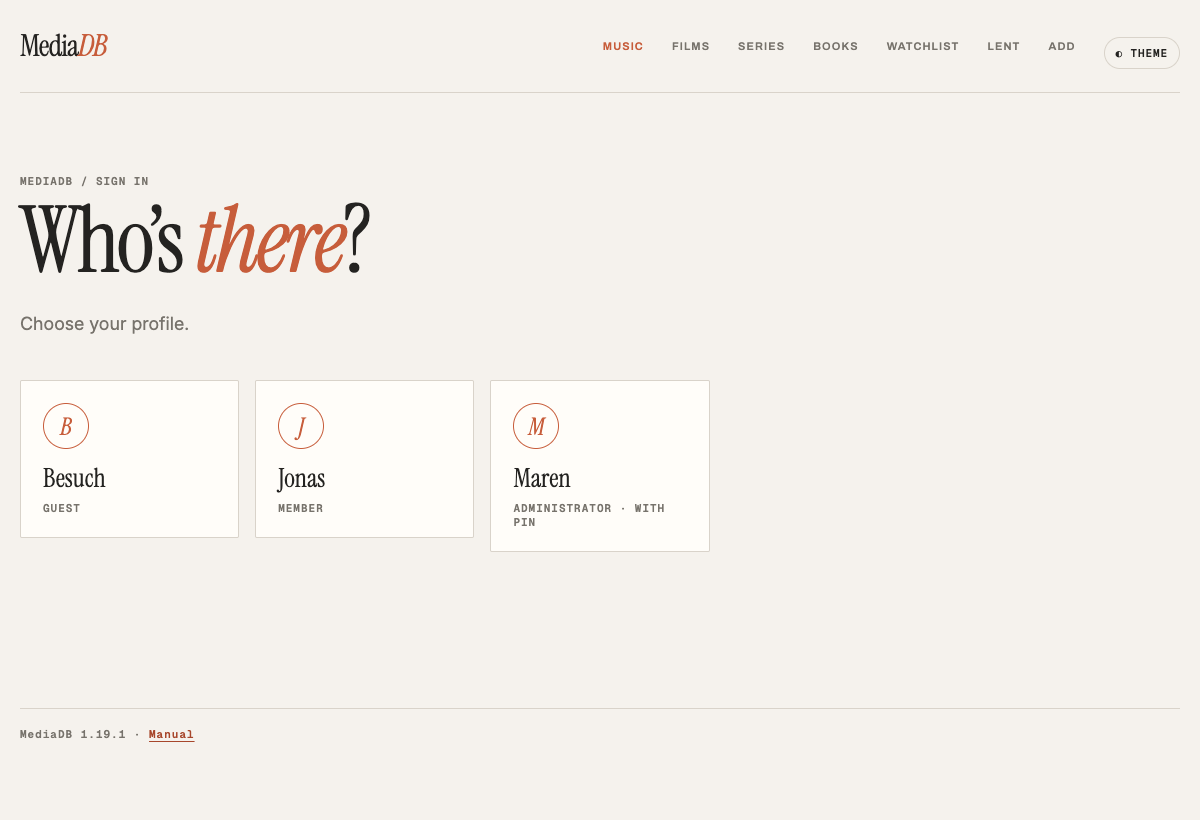
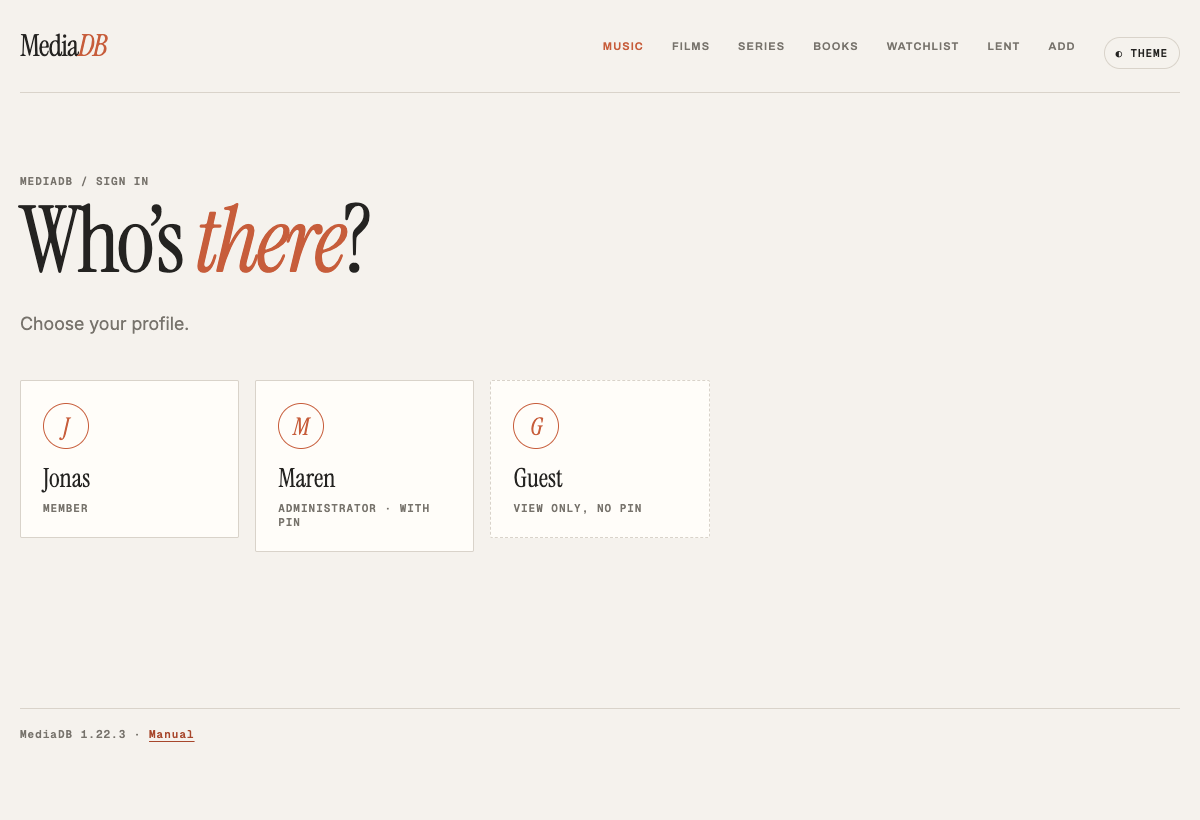
MediaDB 1.22.3 – Gastzugang eingebaut
Mit Konten zeigt die Anmeldeseite von selbst „Gast“ (Kachel bzw. Knopf
bei Name und Passwort), ohne dass eine Person angelegt werden muss.
Schalter unter Einstellungen → Nutzer und Anmeldung → Gastzugang;
abgeschaltet ist ein angemeldeter Gast sofort abgemeldet. Nur im
Heimnetz.

diff --git a/app/templates/base.html b/app/templates/base.html
@@ -1,4 +1,4 @@
-<!doctype html><html lang="{{ lang }}"><head><meta charset="utf-8"><meta name="viewport" content="width=device-width,initial-scale=1"><script>try{const t=(localStorage.getItem("mediadb-theme")||localStorage.getItem("musikdb-theme"));if(t)document.documentElement.dataset.theme=t;else if(matchMedia("(prefers-color-scheme: dark)").matches)document.documentElement.dataset.theme="dark"}catch(e){}</script><link rel="stylesheet" href="{{ base }}/static/style.css?v={{ asset_v }}">{% if custom_css %}<style id="customcolors">{{ custom_css|safe }}</style>{% endif %}<title>MediaDB</title></head><body{% if me and me.role == 'guest' %} class="guest"{% endif %}><div class="shell"><nav><a class="brand" href="{{ base }}/">Media<em>DB</em></a>{% if area != 'welcome' %}{% if area_on('music') %}<a href="{{ base }}/media"{% if area not in ('films','series','books','home','watch','settings','lend','help','welcome') %} class="here"{% endif %}>{{ _("Musik") }}</a>{% endif %}{% if area_on('films') %}<a href="{{ base }}/films"{% if area=='films' %} class="here"{% endif %}>{{ _("Filme") }}</a>{% endif %}{% if area_on('series') %}<a href="{{ base }}/series"{% if area=='series' %} class="here"{% endif %}>{{ _("Serien") }}</a>{% endif %}{% if area_on('books') %}<a href="{{ base }}/books"{% if area=='books' %} class="here"{% endif %}>{{ _("Bücher") }}</a>{% endif %}{% if area_on('watch') %}<a href="{{ base }}/watchlist"{% if area=='watch' %} class="here"{% endif %}>{{ _("Merkliste") }}</a>{% endif %}<a href="{{ base }}/lend"{% if area=='lend' %} class="here"{% endif %}>{{ _("Verliehen") }}</a>{% if not (me and me.role == 'guest') %}<a href="{{ base }}{{ add_url(area) }}">{{ _("Hinzufügen") }}</a>{% endif %}{% if not login_page %}{% if not accounts_on or (me and me.role == 'admin') %}<a href="{{ base }}/settings" class="navgear{% if area=='settings' %} here{% endif %}" title="{{ _('Einstellungen') }}" aria-label="{{ _('Einstellungen') }}">⚙</a>{% endif %}<a href="{{ base }}/hilfe" target="mediadb-hilfe" class="navhelp{% if area=='help' %} here{% endif %}" title="{{ _('Hilfe') }}" aria-label="{{ _('Hilfe') }}">?</a>{% endif %}{% if me and not login_page %}<a href="{{ base }}/logout" class="navme" title="{{ _('Abmelden') }}">{{ me.name }} · {{ _("Wechseln") if accounts_mode == 'profiles' else _("Abmelden") }}</a>{% elif auth_on and not login_page %}<a href="{{ base }}/logout">{{ _("Abmelden") }}</a>{% endif %}{% if not login_page %}<div class="act" id="act" hidden><button type="button" class="actbtn" id="actbtn" aria-expanded="false" aria-controls="actpanel"><i class="actdot"></i><span id="actn"></span></button><div class="actpanel" id="actpanel" hidden></div></div>{% endif %}<button class="theme-toggle" type="button" onclick="toggleTheme()" aria-label="{{ _('Farbschema wechseln') }}">◐ <span>{{ _("Theme") }}</span></button>{% if nav_langs|length > 1 %}<div class="lang-switch" role="group" aria-label="{{ _('Sprache') }}">{% for code in nav_langs %}{% set name = langs[code] %}<button type="button" class="lang-btn{% if code==lang %} active{% endif %}" title="{{ name }}" aria-pressed="{{ 'true' if code==lang else 'false' }}" onclick="location.href='{{ base }}/lang/{{ code }}?next='+encodeURIComponent(location.pathname+location.search)">{{ code|upper }}</button>{% endfor %}</div>{% endif %}{% endif %}</nav><main>{% block content %}{% endblock %}</main><footer class="appfoot">MediaDB {{ app_version|default("") }} · <a class="helplink" href="{{ base }}/hilfe" target="mediadb-hilfe">{{ _("Anleitung") }}</a>{% set upd = update_info() if update_info is defined else None %}{% if upd %} · <a class="updnote" href="{{ upd.url }}" target="_blank" rel="noopener noreferrer">{{ _("Neue Version § verfügbar", upd.version) }}</a>{% endif %}</footer></div>{% if not login_page and area != 'welcome' %}<script>(function(){var A=document.getElementById('act'),B=document.getElementById('actbtn'),N=document.getElementById('actn'),P=document.getElementById('actpanel'),base={{ base|tojson }};
+<!doctype html><html lang="{{ lang }}"><head><meta charset="utf-8"><meta name="viewport" content="width=device-width,initial-scale=1"><script>try{const t=(localStorage.getItem("mediadb-theme")||localStorage.getItem("musikdb-theme"));if(t)document.documentElement.dataset.theme=t;else if(matchMedia("(prefers-color-scheme: dark)").matches)document.documentElement.dataset.theme="dark"}catch(e){}</script><link rel="stylesheet" href="{{ base }}/static/style.css?v={{ asset_v }}">{% if custom_css %}<style id="customcolors">{{ custom_css|safe }}</style>{% endif %}<title>MediaDB</title></head><body{% if me and me.role == 'guest' %} class="guest"{% endif %}><div class="shell"><nav><a class="brand" href="{{ base }}/">Media<em>DB</em></a>{% if area != 'welcome' %}{% if area_on('music') %}<a href="{{ base }}/media"{% if area not in ('films','series','books','home','watch','settings','lend','help','welcome') %} class="here"{% endif %}>{{ _("Musik") }}</a>{% endif %}{% if area_on('films') %}<a href="{{ base }}/films"{% if area=='films' %} class="here"{% endif %}>{{ _("Filme") }}</a>{% endif %}{% if area_on('series') %}<a href="{{ base }}/series"{% if area=='series' %} class="here"{% endif %}>{{ _("Serien") }}</a>{% endif %}{% if area_on('books') %}<a href="{{ base }}/books"{% if area=='books' %} class="here"{% endif %}>{{ _("Bücher") }}</a>{% endif %}{% if area_on('watch') %}<a href="{{ base }}/watchlist"{% if area=='watch' %} class="here"{% endif %}>{{ _("Merkliste") }}</a>{% endif %}<a href="{{ base }}/lend"{% if area=='lend' %} class="here"{% endif %}>{{ _("Verliehen") }}</a>{% if not (me and me.role == 'guest') %}<a href="{{ base }}{{ add_url(area) }}">{{ _("Hinzufügen") }}</a>{% endif %}{% if not login_page %}{% if not accounts_on or (me and me.role == 'admin') %}<a href="{{ base }}/settings" class="navgear{% if area=='settings' %} here{% endif %}" title="{{ _('Einstellungen') }}" aria-label="{{ _('Einstellungen') }}">⚙</a>{% endif %}<a href="{{ base }}/hilfe" target="mediadb-hilfe" class="navhelp{% if area=='help' %} here{% endif %}" title="{{ _('Hilfe') }}" aria-label="{{ _('Hilfe') }}">?</a>{% endif %}{% if me and not login_page %}<a href="{{ base }}/logout" class="navme" title="{{ _('Abmelden') }}">{{ _("Gast") if me.name == GUEST_NAME else me.name }} · {{ _("Wechseln") if accounts_mode == 'profiles' else _("Abmelden") }}</a>{% elif auth_on and not login_page %}<a href="{{ base }}/logout">{{ _("Abmelden") }}</a>{% endif %}{% if not login_page %}<div class="act" id="act" hidden><button type="button" class="actbtn" id="actbtn" aria-expanded="false" aria-controls="actpanel"><i class="actdot"></i><span id="actn"></span></button><div class="actpanel" id="actpanel" hidden></div></div>{% endif %}<button class="theme-toggle" type="button" onclick="toggleTheme()" aria-label="{{ _('Farbschema wechseln') }}">◐ <span>{{ _("Theme") }}</span></button>{% if nav_langs|length > 1 %}<div class="lang-switch" role="group" aria-label="{{ _('Sprache') }}">{% for code in nav_langs %}{% set name = langs[code] %}<button type="button" class="lang-btn{% if code==lang %} active{% endif %}" title="{{ name }}" aria-pressed="{{ 'true' if code==lang else 'false' }}" onclick="location.href='{{ base }}/lang/{{ code }}?next='+encodeURIComponent(location.pathname+location.search)">{{ code|upper }}</button>{% endfor %}</div>{% endif %}{% endif %}</nav><main>{% block content %}{% endblock %}</main><footer class="appfoot">MediaDB {{ app_version|default("") }} · <a class="helplink" href="{{ base }}/hilfe" target="mediadb-hilfe">{{ _("Anleitung") }}</a>{% set upd = update_info() if update_info is defined else None %}{% if upd %} · <a class="updnote" href="{{ upd.url }}" target="_blank" rel="noopener noreferrer">{{ _("Neue Version § verfügbar", upd.version) }}</a>{% endif %}</footer></div>{% if not login_page and area != 'welcome' %}<script>(function(){var A=document.getElementById('act'),B=document.getElementById('actbtn'),N=document.getElementById('actn'),P=document.getElementById('actpanel'),base={{ base|tojson }};
 var L={{ {'one':_t('1 Aufgabe läuft'),'many':_t('§ Aufgaben laufen','%N'),'net':_t('Internet'),'files':_t('liest Dateien'),'hint':_t('Solange Dateien gelesen werden, lassen sich Ordner auf dem NAS eventuell nicht umbenennen. Danach geht es wieder.')}|tojson }};
 function esc(t){return String(t).replace(/[&<>"]/g,function(c){return {'&':'&amp;','<':'&lt;','>':'&gt;','"':'&quot;'}[c]})}
 function show(d){var it=d.items||[];if(!it.length){A.hidden=true;P.hidden=true;B.setAttribute('aria-expanded','false');return}A.hidden=false;var f=it.some(function(x){return x.files});A.classList.toggle('files',f);

diff --git a/app/templates/login.html b/app/templates/login.html
@@ -6,7 +6,9 @@
 <div class="profiles">{% for p in people %}
  {% if p.needs %}<a class="profile" href="{{ base }}/login?u={{ p.id }}&amp;next={{ next|urlencode }}"><span class="pinit" aria-hidden="true">{{ p.name[:1] }}</span><strong>{{ p.name }}</strong><span class="muted">{{ _(ROLES[p.role]) }} · {{ _("mit PIN") }}</span></a>
  {% else %}<form method="post" action="{{ base }}/login"><input type="hidden" name="uid" value="{{ p.id }}"><input type="hidden" name="next" value="{{ next }}"><button class="profile"><span class="pinit" aria-hidden="true">{{ p.name[:1] }}</span><strong>{{ p.name }}</strong><span class="muted">{{ _(ROLES[p.role]) }}</span></button></form>{% endif %}
-{% endfor %}</div>
+{% endfor %}
+ {% if guest %}<form method="post" action="{{ base }}/login"><input type="hidden" name="uid" value="{{ guest.id }}"><input type="hidden" name="next" value="{{ next }}"><button class="profile guesttile"><span class="pinit" aria-hidden="true">{{ _("Gast")[:1] }}</span><strong>{{ _("Gast") }}</strong><span class="muted">{{ _("nur ansehen, ohne PIN") }}</span></button></form>{% endif %}
+</div>
 {% elif mode == 'profiles' %}
 <h1>{{ _("Hallo, *§*", pick.name) }}</h1>
 {% if error %}<div class="warn">{{ _("Falsche PIN oder falsches Passwort.") }}</div>{% endif %}
@@ -21,6 +23,7 @@
 <label>{{ _("Name") }}<input name="name" autocomplete="username" autofocus required></label>
 <label>{{ _("Passwort") }}<input type="password" name="password" autocomplete="current-password" required></label>
 <button>{{ _("Anmelden") }}</button></form>
+{% if guest %}<form method="post" action="{{ base }}/login" class="guestlogin"><input type="hidden" name="uid" value="{{ guest.id }}"><input type="hidden" name="next" value="{{ next }}"><button class="quiet">{{ _("Als Gast ansehen, ohne Passwort (nur lesen)") }}</button></form>{% endif %}
 {% for g in people if g.role == 'guest' and not g.needs %}<form method="post" action="{{ base }}/login" class="guestlogin"><input type="hidden" name="uid" value="{{ g.id }}"><input type="hidden" name="next" value="{{ next }}"><button class="quiet">{{ _("Als „§“ ansehen, ohne Passwort (nur lesen)", g.name) }}</button></form>{% endfor %}
 {% else %}
 <h1>{{ _("*Anmelden*") }}</h1>

diff --git a/app/templates/settings.html b/app/templates/settings.html
@@ -175,6 +175,11 @@ S.querySelectorAll('.nasfrom').forEach(function(sel){sel.onchange=function(){var
   <button>{{ _("Hinzufügen") }}</button>
  </form>
  <p class="help">{{ _("Verwalter: alles, auch Einstellungen und Nutzer. Mitglied: alles ansehen, hinzufügen und bearbeiten. Gast: nur ansehen, auch ohne Passwort. Verwalter brauchen immer ein Passwort.") }}</p>
+ <h3>{{ _("Gastzugang") }}</h3>
+ <form method="post" action="{{ base }}/settings/users/guest" class="modepick">
+  <label class="checkbox"><input type="checkbox" name="on" value="1"{% if guest_on %} checked{% endif %}> <span><strong>{{ _("Gastzugang ohne Passwort anbieten") }}</strong> · {{ _("Auf der Anmeldeseite steht dann „Gast“. Gäste können alles ansehen, aber nichts hinzufügen, ändern oder bewerten. Nur im Heimnetz.") }}</span></label>
+  <button class="quiet">{{ _("Speichern") }}</button>
+ </form>
  <h3>{{ _("Besitzer gesammelt setzen") }}</h3>
  <p class="help">{{ _("Alle CDs, DVDs, Blu-rays, Serienboxen und gedruckten Bücher auf einmal einer Person geben, z. B. nach dem Einrichten. Dateien, E-Books und rein digitale Alben gehören immer dem Haushalt.") }}</p>
  <form method="post" action="{{ base }}/settings/users/assign" class="assignrow" onsubmit="return confirm({{ _t('Besitzer für alle gewählten Exemplare ändern?')|tojson|forceescape }})">

diff --git a/static/style.css b/static/style.css
@@ -321,3 +321,4 @@ nav a.navhelp:not(.brand){display:inline-flex;align-items:center;justify-content
 .seenby{margin:8px 0 0;text-transform:none;letter-spacing:0;font:400 13px Inter,sans-serif}
 .guestlogin{margin:18px 0 0}.guestlogin button{margin:0}
 .assignrow{display:grid;grid-template-columns:minmax(0,1fr) minmax(0,2fr) auto;gap:10px;align-items:center;margin:12px 0}.assignrow select,.assignrow button{margin:0}@media(max-width:700px){.assignrow{grid-template-columns:1fr}}
+.guesttile{border-style:dashed}

diff --git a/app/users.py b/app/users.py
@@ -26,7 +26,7 @@ MAX_AGE = 60 * 60 * 24 * 30
 ROLES = {'admin': 'Verwalter', 'member': 'Mitglied', 'guest': 'Gast'}
 MODES = ('off', 'profiles', 'password')
 _init_lock = threading.Lock()
-_cache = {'users': None, 'mode': None}
+_cache = {'users': None, 'mode': None, 'guest': None}
 _current = contextvars.ContextVar('mediadb_user', default=None)  # die Middleware fragt bei jeder Anfrage; Aenderungen leeren den Zwischenspeicher
 
 SCHEMA = """
@@ -35,6 +35,7 @@ CREATE TABLE IF NOT EXISTS users(
   secret TEXT, last_login TEXT, created_at TEXT);
 CREATE TABLE IF NOT EXISTS meta(key TEXT PRIMARY KEY, value TEXT);
 """
+GUEST_NAME = '__gast__'  # eingebauter Gast (seit 1.22.3): ohne Passwort, nur lesen; angezeigt als "Gast"/"Guest"
 ASSIGN_PHYSICAL = None  # main.py: physische Exemplare gesammelt einer Person geben (Einstellungen -> Nutzer)
 ON_FIRST_ADMIN = []  # main.py: (Name, Funktion), die beim ersten Verwalter Vorhandenes einmalig uebernehmen (z. B. owner_id leer -> er)
 
@@ -62,7 +63,7 @@ def db():
 
 
 def _forget():
-    _cache.update(users=None, mode=None)
+    _cache.update(users=None, mode=None, guest=None)
 
 
 # ---------------------------------------------------------------- Lesen
@@ -72,6 +73,37 @@ def users():
         with db() as c:
             _cache['users'] = {r['id']: dict(r) for r in c.execute('SELECT * FROM users ORDER BY name COLLATE NOCASE')}
     return _cache['users']
+
+
+def people():
+    """Alle Nutzer ohne den eingebauten Gast (fuer Listen und Auswahl)."""
+    return [u for u in users().values() if u['name'] != GUEST_NAME]
+
+
+def guest_on():
+    """Gastzugang ohne Passwort anbieten (Einstellungen -> Nutzer); ohne Eintrag eingeschaltet."""
+    if _cache['guest'] is None:
+        with db() as c:
+            r = c.execute("SELECT value FROM meta WHERE key='guest_access'").fetchone()
+        _cache['guest'] = not r or r[0] != '0'
+    return _cache['guest']
+
+
+def set_guest(on):
+    with db() as c:
+        c.execute("INSERT OR REPLACE INTO meta(key, value) VALUES('guest_access', ?)", ('1' if on else '0',))
+    _forget()
+
+
+def builtin_guest():
+    """Konto des eingebauten Gasts, bei Bedarf angelegt (persoenliche Angaben brauchen eine Nummer)."""
+    g = next((u for u in users().values() if u['name'] == GUEST_NAME), None)
+    if not g:
+        with db() as c:
+            c.execute('INSERT OR IGNORE INTO users(name, role, created_at) VALUES(?, ?, ?)', (GUEST_NAME, 'guest', now()))
+        _forget()
+        g = next((u for u in users().values() if u['name'] == GUEST_NAME), None)
+    return g
 
 
 def get(uid):
@@ -222,6 +254,8 @@ def user_from_token(secret_key, tok):
     except Exception:
         return None
     if exp < time.time() or not get(uid) or not hmac.compare_digest(sig, _sig(secret_key, uid, exp)):
+        return None
+    if get(uid)['name'] == GUEST_NAME and not guest_on():  # Gastzugang abgeschaltet: Gast ist abgemeldet
         return None
     return get(uid)
 

diff --git a/app/main.py b/app/main.py
@@ -591,7 +591,7 @@ def nav_langs():
  return [c for c in i18n.LANGS if c in v]
 def ctx(request,**kw):
  lang=get_lang(request)
- return {'request':request,'lang':lang,'langs':i18n.LANGS,'nav_langs':nav_langs(),'custom_css':custom_css(),'_':partial(i18n.tr,lang),'_t':partial(i18n.tr_text,lang),'base':sec.get_base(request),'auth_on':SEC.auth_on or users.accounts_on(),'accounts_on':users.accounts_on(),'accounts_mode':users.mode(),'me':request.scope.get('state',{}).get('user'),'ROLES':users.ROLES,'layout':partial(get_layout,request),'layout_cls':partial(layout_cls,request),**kw}
+ return {'request':request,'lang':lang,'langs':i18n.LANGS,'nav_langs':nav_langs(),'custom_css':custom_css(),'_':partial(i18n.tr,lang),'_t':partial(i18n.tr_text,lang),'base':sec.get_base(request),'auth_on':SEC.auth_on or users.accounts_on(),'accounts_on':users.accounts_on(),'accounts_mode':users.mode(),'me':request.scope.get('state',{}).get('user'),'ROLES':users.ROLES,'GUEST_NAME':users.GUEST_NAME,'layout':partial(get_layout,request),'layout_cls':partial(layout_cls,request),**kw}
 @app.get('/layout/{area}/{mode}')
 def set_layout(request:Request,area:str,mode:str,next:str='/'):
  next=sec.strip_base(next,sec.get_base(request))
@@ -694,7 +694,8 @@ def login_page(request:Request,next:str='/media',error:str='',u:int=0):
  if users.accounts_on():
   pick=users.get(u) if users.mode()=='profiles' else None
   return templates.TemplateResponse(request,'login.html',ctx(request,next=_safe_next(next),error=error,login_page=True,mode=users.mode(),
-   people=[dict(x,needs=_needs_secret(x,request)) for x in users.users().values()],pick=pick and dict(pick,needs=_needs_secret(pick,request))))
+   people=[dict(x,needs=_needs_secret(x,request)) for x in users.people()],pick=pick and dict(pick,needs=_needs_secret(pick,request)),
+   guest=users.builtin_guest() if users.guest_on() and not _public(request) else None))
  if not SEC.auth_on: return RedirectResponse(_safe_next(next),303)
  return templates.TemplateResponse(request,'login.html',ctx(request,next=_safe_next(next),error=error,login_page=True,mode='app'))
 @app.post('/login')
@@ -704,6 +705,7 @@ def login(request:Request,password:str=Form(''),next:str=Form('/media'),uid:int=
   guest=users.get(uid) if uid else None
   if users.mode()=='profiles' or (guest and guest['role']=='guest'): u=users.get(uid)
   else: u=users.by_name(name)
+  if u and u['name']==users.GUEST_NAME and not users.guest_on(): u=None  # eingebauter Gast abgeschaltet
   if not u or (_needs_secret(u,request) and not users.secret_ok(u,password)):
    time.sleep(1.5); return RedirectResponse('/login?'+urlencode({'next':nxt,'error':'1','u':uid or ''}),303)
   users.touch(u['id'])

diff --git a/app/settings_web.py b/app/settings_web.py
@@ -44,7 +44,7 @@ def _view():
                 flags={k: C.flag(k) for k in ('BARCODE_LOOKUP', 'COVER_WEB', 'AUTO_UPDATE', 'MEDIATHEK', 'UPDATE_CHECK')}, relang=RELANG,
                 stored_lang=C.stored().get('TMDB_LANGUAGE'),
                 password_on=bool(os.getenv('APP_PASSWORD')), public=os.getenv('ALLOW_PUBLIC', '0') in ('1', 'true', 'yes', 'ja', 'on'),
-                ui_langs=i18n.LANGS, people=list(U.users().values()),
+                ui_langs=i18n.LANGS, people=U.people(), guest_on=U.guest_on(),
                 nas_shares=[{k: v for k, v in x.items() if k != 'password'} | {'has_password': bool(x.get('password'))} for x in nas.shares()],
                 nas_logins=nas.logins(), upd=updates.STATE, upd_info=updates.info(), app_ver=C.version(),
                 upd_checked=time.strftime('%d.%m.%Y %H:%M', time.localtime(updates.STATE['checked'])) if updates.STATE['checked'] else '')
@@ -161,6 +161,13 @@ async def users_assign(request):
         return _users_back('Unbekannter Besitzer.')
     n = await run_in_threadpool(U.ASSIGN_PHYSICAL, uid, f.get('scope') != 'all')
     return _users_back('Besitzer gespeichert.')
+
+
+async def users_guest(request):
+    """Eingebauten Gastzugang (ohne Passwort, nur lesen) an- oder abschalten."""
+    f, _ = await _form(request)
+    await run_in_threadpool(U.set_guest, f.get('on') == '1')
+    return _users_back('Gespeichert.')
 
 
 async def users_mode(request):
@@ -294,6 +301,7 @@ routes = [Route('/', page), Route('/save', save, methods=['POST']), Route('/test
           Route('/nas/test', nas_test, methods=['POST']), Route('/nas/status', nas_status),
           Route('/nas/delete', nas_delete, methods=['POST']),
           Route('/users/setup', users_setup, methods=['POST']), Route('/users/add', users_add, methods=['POST']),
-          Route('/users/mode', users_mode, methods=['POST']), Route('/users/assign', users_assign, methods=['POST']), Route('/users/{uid:int}/save', users_save, methods=['POST']),
+          Route('/users/mode', users_mode, methods=['POST']), Route('/users/assign', users_assign, methods=['POST']),
+          Route('/users/guest', users_guest, methods=['POST']), Route('/users/{uid:int}/save', users_save, methods=['POST']),
           Route('/users/{uid:int}/delete', users_delete, methods=['POST'])]
 app = Starlette(routes=routes)

diff --git a/tools/screenshots.py b/tools/screenshots.py
@@ -66,7 +66,7 @@ DEMO_PW = 'demo1234'  # nur fuer die erfundenen Konten der Beispiel-Sammlung
 USERS_SETUP = f"""import sys; sys.path.insert(0, '.')
 from app import users as U
 U.init(sys.argv[1])
-U.create('Maren', 'admin', '{DEMO_PW}'); U.create('Jonas', 'member'); U.create('Besuch', 'guest')"""
+U.create('Maren', 'admin', '{DEMO_PW}'); U.create('Jonas', 'member')"""
 
 
 def accounts(browser, base, on, lang):

diff --git a/docs/MANUAL.md b/docs/MANUAL.md
@@ -2,7 +2,7 @@
 
 MediaDB is a **private media database for your home network** with four sections: **music, films, TV shows and books**, plus a **watchlist**, **up next** and **lent to …**. You record CDs, DVDs, Blu-rays, books and your files (music, films, episodes, e-books, audiobooks); the app fills in track lists, covers, film data, episode guides and book details from free online sources. Everything runs in the browser, on a computer as well as on a phone. Your data stays with you.
 
-This manual describes MediaDB 1.22.2. The running version is shown at the bottom of every page. You can also open this manual in MediaDB itself: via the **?** in the top bar or the **“Manual”** link at the bottom of every page, matching the installed version and without internet. (This is the English translation of the German manual `ANLEITUNG.md`. The pages “Running in a homelab”, “Data sources and legal” and “Changes” are only available in German so far; your browser’s translate function works well on them.)
+This manual describes MediaDB 1.22.3. The running version is shown at the bottom of every page. You can also open this manual in MediaDB itself: via the **?** in the top bar or the **“Manual”** link at the bottom of every page, matching the installed version and without internet. (This is the English translation of the German manual `ANLEITUNG.md`. The pages “Running in a homelab”, “Data sources and legal” and “Changes” are only available in German so far; your browser’s translate function works well on them.)
 
 **Contents:** [1. Overview](#1-overview) · [2. Installation](#2-installation) · [3. Settings](#3-settings) · [4. General use](#4-general-use) · [5. Music](#5-music) · [6. Films](#6-films) · [7. TV shows](#7-tv-shows) · [8. Watchlist](#8-watchlist) · [9. Books](#9-books) · [10. Lent to …](#10-lent-to) · [11. Media libraries](#11-media-libraries) · [12. Files from a NAS or Mac](#12-files-from-a-nas-or-mac) · [13. Backups and updates](#13-backups-and-updates) · [14. Where does the data come from?](#14-where-does-the-data-come-from) · [15. Limitations](#15-limitations) · [16. Troubleshooting](#16-troubleshooting)
 
@@ -57,7 +57,7 @@ The **gear ⚙** at the top opens the settings. Changes apply immediately, no re
   - **Profile picker:** click your own name when opening MediaDB; a PIN is optional (administrators always need one). Convenient at home.
   - **Name and password:** proper sign-in, valid for 30 days; everyone needs a password except guests.
 
-  **Guest access:** a person with the role **guest** and no password can browse everything but cannot add, change or rate anything. With the profile picker you simply click their profile; with “Name and password” the sign-in page has a button **“Browse as …, without password”**. From outside the home network a guest needs a password too.
+  **Guest access:** the sign-in page shows **“Guest”** by itself (with “Name and password”, the button **“Browse as a guest, without password”**). A guest can view everything but cannot add, change or rate anything. Turn it off under Settings → Users and sign-in → **Guest access**; a guest who is signed in is signed out at once. There is no guest access from outside the home network. If you like, you can also add your own people with the role guest, e.g. with a PIN.
   
   The top bar shows who is signed in; clicking it switches profile or signs out. **“Off”** turns accounts off again; the users stay saved. The collection is the same for everyone, but **each person has their own details:** watched (including single episodes), own rating, read, “Up next” and the watchlist. Lists such as “Not watched yet” or “Top 10: must watch” and the numbers on the start page apply to the person signed in. A film’s or book’s page shows who has watched or read it (“Watched by: …”), a TV show how many episodes each person has watched. Custom lists and notes stay shared. When accounts are turned on, the existing details become those of the first administrator; if accounts are turned off again, the details from before the accounts apply.
 

diff --git a/docs/ANLEITUNG.md b/docs/ANLEITUNG.md
@@ -2,7 +2,7 @@
 
 MediaDB ist eine **private Mediendatenbank für das eigene Heimnetz** mit vier Bereichen: **Musik, Filme, Serien und Bücher**, dazu **Merkliste**, **Als Nächstes** und **Verliehen an …**. Du erfasst CDs, DVDs, Blu-rays, Bücher und deine Dateien (Musik, Filme, Serien, E-Books, Hörbücher), die App ergänzt Titellisten, Cover, Filmdaten, Episodenführer und Buchangaben aus freien Internetquellen. Bedient wird alles im Browser, am Rechner wie am Handy. Die Daten bleiben bei dir.
 
-Diese Anleitung beschreibt MediaDB 1.22.2. Welche Version läuft, steht unten auf jeder Seite. Du findest sie auch in MediaDB selbst: über das **?** oben in der Leiste oder den Link **„Anleitung“** unten auf jeder Seite, passend zur installierten Version und ohne Internet. Eine englische Fassung gibt es in [MANUAL.md](MANUAL.md); die App zeigt sie bei allen Oberflächensprachen außer Deutsch.
+Diese Anleitung beschreibt MediaDB 1.22.3. Welche Version läuft, steht unten auf jeder Seite. Du findest sie auch in MediaDB selbst: über das **?** oben in der Leiste oder den Link **„Anleitung“** unten auf jeder Seite, passend zur installierten Version und ohne Internet. Eine englische Fassung gibt es in [MANUAL.md](MANUAL.md); die App zeigt sie bei allen Oberflächensprachen außer Deutsch.
 
 **Inhalt:** [1. Überblick](#1-überblick) · [2. Installation](#2-installation) · [3. Einstellungen](#3-einstellungen) · [4. Bedienung allgemein](#4-bedienung-allgemein) · [5. Musik](#5-musik) · [6. Filme](#6-filme) · [7. Serien](#7-serien) · [8. Merkliste](#8-merkliste) · [9. Bücher](#9-bücher) · [10. Verliehen an …](#10-verliehen-an) · [11. Mediatheken](#11-mediatheken) · [12. Dateien von NAS und Mac](#12-dateien-von-nas-und-mac) · [13. Sichern und Updates](#13-sichern-und-updates) · [14. Woher kommen die Daten?](#14-woher-kommen-die-daten) · [15. Grenzen](#15-grenzen) · [16. Fehlersuche](#16-fehlersuche)
 
@@ -57,7 +57,7 @@ Das **Zahnrad ⚙** oben öffnet die Einstellungen. Änderungen gelten sofort, e
   - **Profilwahl:** Beim Öffnen auf den eigenen Namen klicken, eine PIN ist freiwillig (Verwalter brauchen immer eine). Bequem im Heimnetz.
   - **Name und Passwort:** richtige Anmeldung, 30 Tage gültig; jeder braucht ein Passwort, außer Gästen.
 
-  **Gastzugang:** Eine Person mit der Rolle **Gast** ohne Passwort kann sich alles ansehen, aber nichts hinzufügen, ändern oder bewerten. Bei der Profilwahl klickt man einfach auf ihr Profil, bei „Name und Passwort“ gibt es auf der Anmeldeseite den Knopf **„Als … ansehen, ohne Passwort“**. Von außerhalb des Heimnetzes braucht auch ein Gast ein Passwort.
+  **Gastzugang:** Auf der Anmeldeseite steht von selbst **„Gast“** (bei „Name und Passwort“ der Knopf **„Als Gast ansehen, ohne Passwort“**). Ein Gast kann sich alles ansehen, aber nichts hinzufügen, ändern oder bewerten. Abschalten lässt sich das unter Einstellungen → Nutzer und Anmeldung → **Gastzugang**; ein angemeldeter Gast ist dann sofort abgemeldet. Von außerhalb des Heimnetzes gibt es keinen Gastzugang. Wer möchte, legt zusätzlich eigene Personen mit der Rolle Gast an, z. B. mit PIN.
   
   Oben in der Leiste steht, wer angemeldet ist; ein Klick darauf wechselt das Profil bzw. meldet ab. **„Aus“** schaltet die Konten wieder ab, die Nutzer bleiben gespeichert. Die Sammlung ist für alle dieselbe, aber **jede Person hat ihre eigenen Angaben:** gesehen (auch einzelne Folgen), eigene Bewertung, gelesen, „Als Nächstes“ und die Merkliste. Listen wie „Noch nicht gesehen“ oder „Top 10: Muss ich sehen“ und die Zahlen auf der Startseite gelten für die angemeldete Person. Auf der Seite eines Films oder Buchs steht, wer ihn schon gesehen bzw. gelesen hat („Gesehen von: …“), bei Serien, wie viele Folgen jede Person gesehen hat. Gemeinsam bleiben eigene Listen und Notizen. Beim Einschalten der Konten werden die bisherigen Angaben die des ersten Verwalters; schaltet man die Konten wieder aus, gelten die Angaben von vor den Konten.
 

diff --git a/PROJEKTANLEITUNG.md b/PROJEKTANLEITUNG.md
@@ -176,6 +176,7 @@ Den ganzen Ordner `data` regelmäßig kopieren (Datenbank + Cover). Vor größer
 - `app/activity.py`: Jeder Bereich meldet eine Funktion an (`register`), die den Stand seiner Aufgabe liefert (Text, `net`/`files`, Fortschritt, Link). `/activity?lang=..` gibt alle laufenden als JSON; `base.html` fragt alle 8 s (bei laufender Aufgabe alle 3 s) ab und zeigt die Anzeige in der Navigation. Musik meldet sich in `main.py` an (REFRESH, JOB, IMP), Filme/Serien/Merkliste in `activity.register_media()`. Neue Hintergrundaufgaben dort anmelden.
 
 ## Stand und nächste Schritte
+- **MediaDB 1.22.3** (Git-Stand `v1.22.3`): eingebauter Gast (`users.GUEST_NAME = '__gast__'`, wird bei Bedarf angelegt, `users.people()` blendet ihn aus, Anzeige „Gast“ übersetzt), Schalter `guest_access` in nutzer.db/meta (`guest_on`/`set_guest`), abgeschaltet lehnt `user_from_token` den Gast ab.
 - **MediaDB 1.22.2** (Git-Stand `v1.22.2`): Besitzer nur bei Physischem (`users.physical_copy`, Musik nach `ownership`), einmalige Umstellung `users.once('digital_household')`; `assign_physical()` in main.py für „Besitzer gesammelt setzen“; Gäste ohne Passwort auch bei „Name und Passwort“ (`_needs_secret`).
 - **MediaDB 1.22.1** (Git-Stand `v1.22.1`): Korrektur. SQLite im Image (3.46) verbietet `main.<tabelle>` in Triggern; Schreibbefehle auf verdeckte Tabellen verteilt jetzt `users.Conn` (eigene sqlite3-Verbindungsklasse, `factory=U.Conn`), die Sichten bleiben. **Vor jeder Veröffentlichung mit Konten im echten Docker-Image testen** (Code per `-v $PWD/app:/app/app` einhängen), nicht nur auf dem Mac.
 - **MediaDB 1.22.0** (Git-Stand `v1.22.0`): persönliche Angaben (Stufe 3). Tabellen `film_user`, `series_user`, `watched_user`, `book_user` (in den Bereichs-Datenbanken), `media_next` (musik.db), `watch.user_id`. `users.personalize()` legt pro Verbindung (nur mit Konten) temporäre Sichten gleichen Namens an (`films`, `series`, `watched`, `books`, `watch`), die die echte Tabelle verdecken; INSTEAD-OF-Trigger leiten Schreibzugriffe um, `mdb_uid()` liefert die angemeldete Person (ContextVar). **Neue Zeilen immer in `main.<tabelle>` schreiben**; Aufbau im init mit `db(plain=True)`. Musik ausdrücklich (`music_next_cond`, `set_music_next`), weil SQLAlchemy Sichten nicht verträgt. `seen_by()` für „Gesehen von“.

diff --git a/CHANGELOG.md b/CHANGELOG.md
@@ -1,5 +1,10 @@
 # Änderungen
 
+## MediaDB 1.22.3 – Gastzugang eingebaut
+- **„Gast“ ist von selbst da:** Mit Konten zeigt die Anmeldeseite immer die Kachel „Gast“ (bzw. bei „Name und Passwort“ den Knopf „Als Gast ansehen, ohne Passwort“). Man muss dafür keine eigene Person mehr anlegen. Gäste können alles ansehen, aber nichts hinzufügen, ändern oder bewerten.
+- **Schalter** unter Einstellungen → Nutzer und Anmeldung → Gastzugang. Abgeschaltet verschwindet die Kachel, und ein angemeldeter Gast ist sofort abgemeldet. Von außerhalb des Heimnetzes gibt es keinen Gastzugang.
+- Selbst angelegte Personen mit der Rolle Gast funktionieren weiter wie bisher.
+
 ## MediaDB 1.22.2 – Besitzer nur bei Physischem, Gast ohne Passwort
 - **Besitzer nur bei physischen Exemplaren:** CD, DVD, Blu-ray, 4K, Serienbox und gedrucktes Buch. Dateien, E-Books, Hörbücher aus Ordnern und rein digitale Alben gehören immer dem Haushalt; dort gibt es keine Besitzer-Auswahl mehr, und beim Einlesen wird niemand automatisch Besitzer. Bereits eingelesene Dateien werden beim Update einmalig auf „Haushalt“ gesetzt.
 - **Besitzer gesammelt setzen** (Einstellungen → Nutzer und Anmeldung): alle physischen Exemplare auf einmal einer Person geben, wahlweise nur die, die noch dem Haushalt gehören. Offene Verleihvorgänge ziehen mit.
